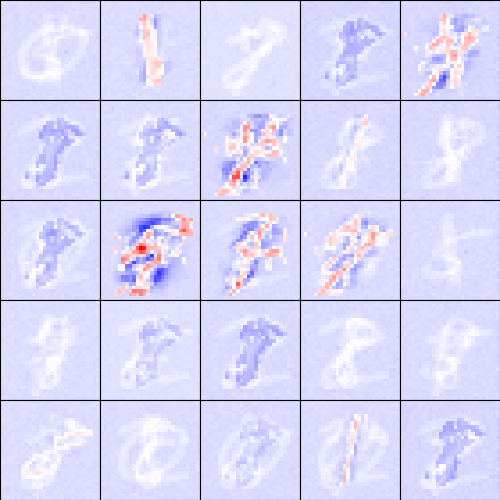
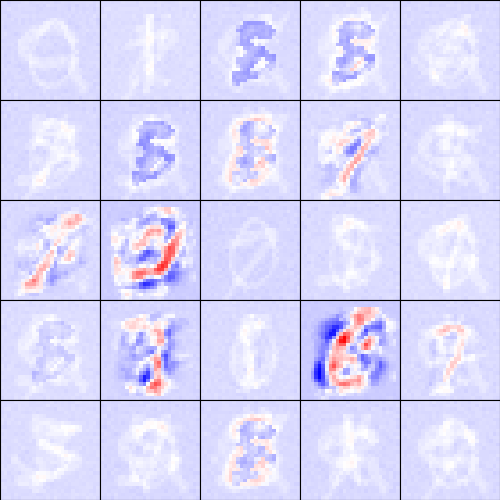
reconstruction loss

diff --git a/lab4/rbm.py b/lab4/rbm.py
@@ -57,7 +57,7 @@ class RestrictedBoltzmannMachine():
 
         self.momentum = 0.7
 
-        self.print_period = 5000
+        self.print_period = 5
 
         self.rf = { # receptive-fields. Only applicable when visible layer is input data
             "period" : 5, #5000, # iteration period to visualize
@@ -79,7 +79,7 @@ class RestrictedBoltzmannMachine():
           n_iterations: number of iterations of learning (each iteration learns a mini-batch)
         """
         print ("learning CD1")
-        visible_trainset = visible_trainset[:500]
+        visible_trainset = visible_trainset[:1000]
         n_samples = visible_trainset.shape[0]
         n_minibatches = int(n_samples/self.batch_size + 0.5)
 
@@ -98,19 +98,18 @@ class RestrictedBoltzmannMachine():
                 v_probs_1, _ = self.get_v_given_h(h_activations_0, sample=False)
                 h_probs_1, h_activations_1 = self.get_h_given_v(v_probs_1)
 
-                # print(v_activations_0.shape,h_activations_0.shape,v_probs_1.shape,h_probs_1.shape)
                 self.update_params(v_activations_0,h_activations_0,v_probs_1,h_probs_1)
-                # [TODO TASK 4.1] update the parameters using function 'update_params'
 
-                if it % self.rf["period"] == 0 and self.is_bottom:
+            if it % self.rf["period"] == 0 and self.is_bottom:
 
-                    viz_rf(weights=self.weight_vh[:,self.rf["ids"]].reshape((self.image_size[0],self.image_size[1],-1)), it=it, grid=self.rf["grid"])
+                viz_rf(weights=self.weight_vh[:,self.rf["ids"]].reshape((self.image_size[0],self.image_size[1],-1)), it=it, grid=self.rf["grid"])
 
-                # print progress
+            # print progress
 
-                # if it % self.print_period == 0 :
-
-                    # print ("iteration=%7d recon_loss=%4.4f"%(it, np.linalg.norm(visible_trainset - visible_trainset)))
+            if it % self.print_period == 0 :
+                forward_pass,_ = self.get_h_given_v(visible_trainset)
+                reconstruction,_ = self.get_v_given_h(forward_pass)
+                print ("iteration=%7d recon_loss=%4.4f"%(it, np.linalg.norm(visible_trainset - reconstruction)))
 
         return
 
